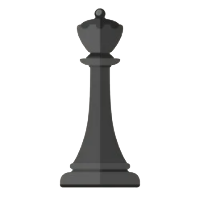
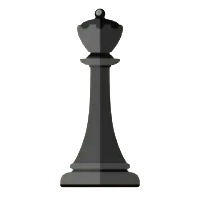
Revamped the textures a bit to make them pop and change the board colour with board2

diff --git a/chess/Textures.cpp b/chess/Textures.cpp
@@ -1,6 +1,6 @@
 #include "Textures.h"
 
-Texture Chess::Textures::Board = Chess::Textures::InitTexture("res/board.png");
+Texture Chess::Textures::Board = Chess::Textures::InitTexture("res/board2.png");
 Texture Chess::Textures::BlackKing = Chess::Textures::InitTexture("res/black-king.png");
 Texture Chess::Textures::BlackQueen = Chess::Textures::InitTexture("res/black-queen.png");
 Texture Chess::Textures::BlackBishop = Chess::Textures::InitTexture("res/black-bishop.png");
